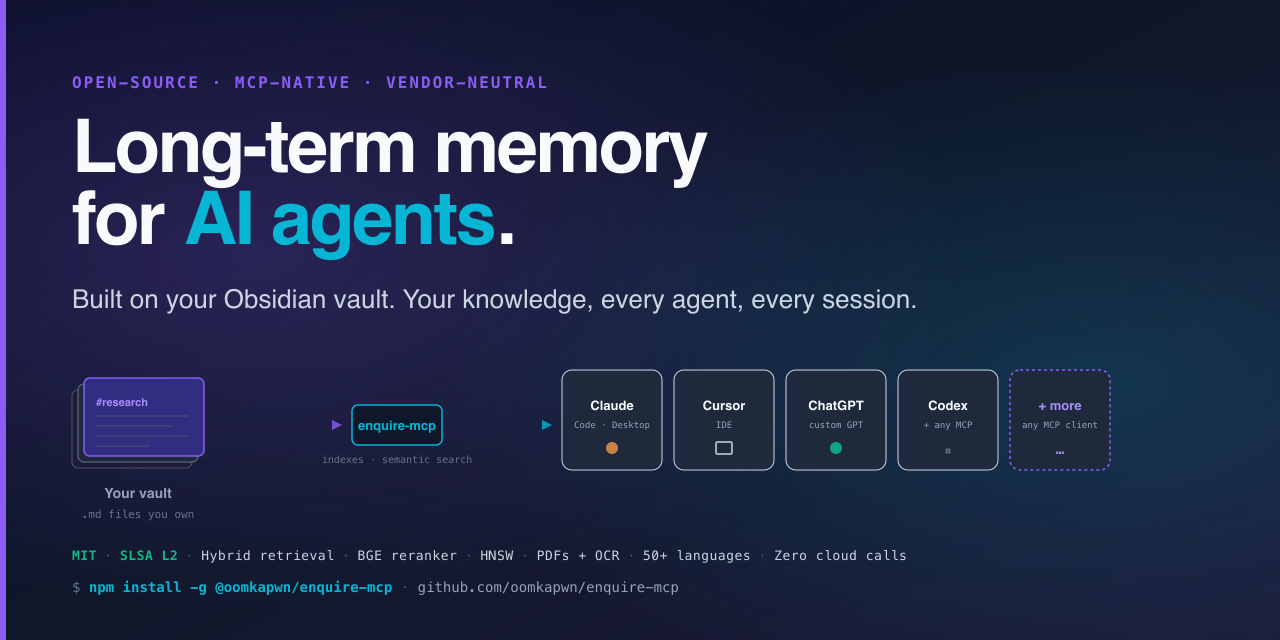
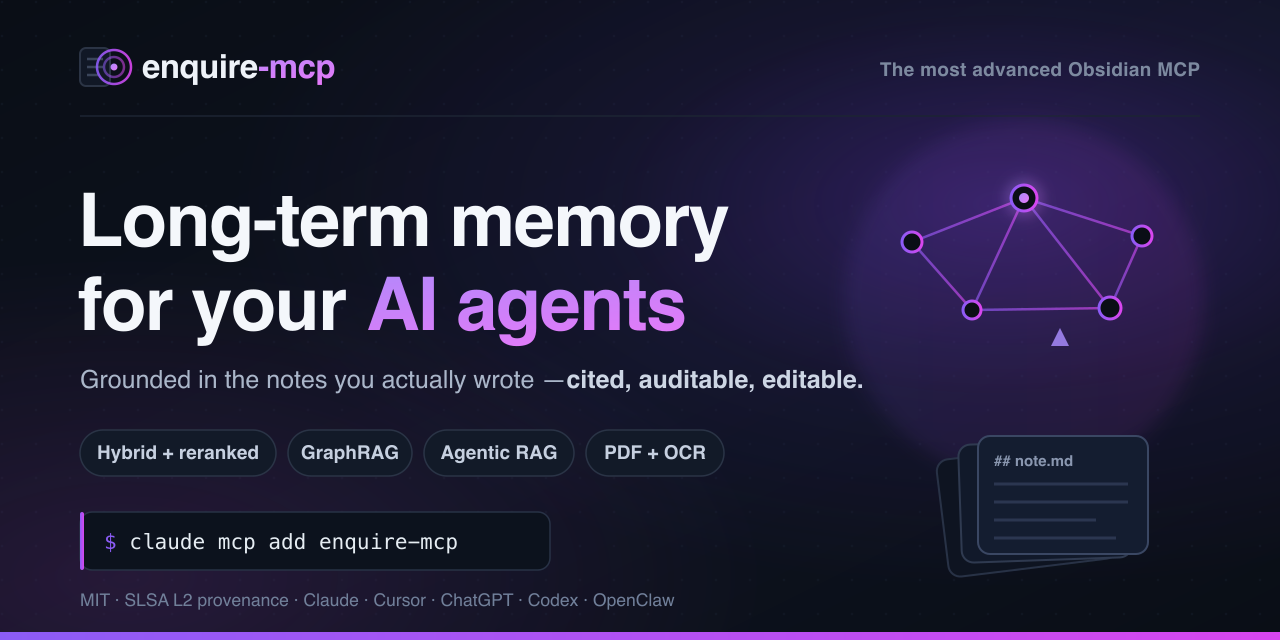
v3.9.0-rc.29: redesign social-preview card (professional + conversion-oriented) (#168)
Complete redesign of assets/social-preview.svg (+ re-rendered .png), the GitHub
social-preview / most-shared visual of the repo, at the user's request.

- Premium dark treatment: layered gradient + radial glow + subtle dot matrix.
- SVG logomark (vault doc -> recall rings); no emoji.
- Value-prop hero: "Long-term memory for your AI agents".
- Selling line (category differentiator): "Grounded in the notes you actually
  wrote -- cited, auditable, editable."
- Qualitative capability chips: Hybrid + reranked / GraphRAG / Agentic RAG /
  PDF + OCR (no hardcoded counts -> card is no longer a numeric-drift surface).
- "claude mcp add enquire-mcp" install CTA pill.
- Honest trust line: MIT / SLSA L2 / Claude / Cursor / ChatGPT / Codex / OpenClaw.
- vault -> knowledge-graph memory illustration.

PNG re-rendered at 2x density -> crisp 1280x640 (188 KB -> 49.5 KB).
SLSA honesty preserved ("SLSA L2", not "SLSA-3") -> OIA Check 4d stays green.

Assets + version/CHANGELOG/CLAUDE only. Zero src/, 1019 tests unchanged.
Gates: lint, version-consistency (7 surfaces), OIA 10/10, changelog-coverage.

diff --git a/src/index.ts b/src/index.ts
@@ -42,7 +42,7 @@ import { main } from "./cli.js";
  * + `McpServer({version})`) and `src/tool-registry.ts` (used in the
  * `vault-info` resource payload).
  */
-export const VERSION = "3.9.0-rc.28";
+export const VERSION = "3.9.0-rc.29";
 
 // Re-exports — preserve the v3.5.x public surface so http-transport.ts and
 // tests don't need to know about the new module layout. The set below

diff --git a/CLAUDE.md b/CLAUDE.md
@@ -153,7 +153,8 @@ Apply **root-cause sweep methodology** consistently: every bug → identify the 
 - **v3.9.0-rc.3 shipped**: R-10 adaptive HNSW refill — closes the last open INFO finding from the corrected 2026-05-25 external audit on rc.15. New `adaptiveHnswRefill()` helper in `src/tools/search.ts` doubles k up to 3 attempts when post-filter hits < limit; closes the >66% excluded under-return class that rc.9's static 6× multiplier couldn't fully solve. Archived audit doc + AUDIT-REQUEST for next pre-stable pass. **+7 tests; 918 unit tests total.**
 - **v3.9.0-rc.4 shipped**: Full state-driven self-audit — closes 3 HIGH + 4 MEDIUM findings + documents overclaim #13 + recursion-pair shape #7 + extends META scope-completeness with 2 new defenses (`runDeferredClaimAudit`, `runCliFlagCoverageAudit`). User-facing docs (README, api.md, QUICKSTART, llms.txt, AGENTS.md) updated to mention v3.9.0-rc.1/rc.2/rc.3 features (OCR flags, HNSW live update, adaptive refill). 12 stable CLI flags added to `docs/api.md` flag table. CLAUDE.md self-contradiction (header "deferred" vs status "shipped") fixed. **+5 tests (3 POSITIVE + 2 NEGATIVE controls); 923 unit tests total.**
 - **v3.9.0-rc.7 shipped**: Tier 0 integrity batch from the comprehensive audit (code agent + docs agent + competitor research). Fixes 2 brand-critical overclaims: **#15 SLSA-3** (badge linked to slsa.dev L3 but `release.yml` only does `npm publish --provenance` = SLSA Build L2 — downgraded the claim across README badge/hero/table/releases + package.json + llms.txt + COMPARISON to "signed build provenance (SLSA L2); L3 generator on roadmap") + version/RC drift (README "currently rc.3"→rc.6, QUICKSTART, benchmarks, OIA "6 checks"→8 in AGENTS.md). Reranker claim corrected from generic "+5-10 NDCG@10" to **measured +15.5 NDCG@10 / +24.7 MRR**. New `ROADMAP.md`. `false/` npm-cache junk → `.gitignore`. CITATION.cff version field. New anti-pattern documented (overclaim #15 + the "claimed-guarantee vs code-guard" class). **Docs/config-only; tests unchanged.** OCR offline enforcement (#16, "implement" decision) → rc.9; watcher per-file serialization race (H1) → rc.10 (re-sequenced when rc.8 became the integrity-batch — see rc.8 entry).
-- **v3.9.0-rc.28 shipped (current)**: External-audit re-verification response. A "Mavis" external audit (on rc.24 / `d564eb5`) was supplied; I re-verified every claim against the actual code (treating the report as untrusted). **Verdict**: competent breadth audit, but it **MISSED a live CRITICAL** — the ReDoS we independently found + fixed in rc.25 — so its "no critical findings" was false for the commit it graded; plus factual errors ("14-check OIA"→10; "22 bare `catch {}`"→49 and **zero** truly-empty; "12 floors"→11 files). Fixed the audit's legitimate code findings: **M-2** (`buildEmbedText` `MAX_EMBED_CHARS=8000` clamp — default path unaffected), **M-6** (`peekCache` LRU-bounded via new pure `lruMapSet`), **M-4** (`main()` + `addAdvancedRetrievalOptions` TSDoc), **L-4 residual** (`bench.mjs:4` "p99"→"max" comment). **Rejected** H-4 (style nit, miscounted, all fail-soft-with-body — documented) and **deferred** M-3 (2 new CLI flags = disproportionate surface — documented). **H-1/H-2/H-3 branch-protection are MAINTAINER-ONLY** (verified real via `gh api`: 7 enforced checks not 9, `enforce_admins:false`, 0 reviews — but modifying repo security settings is out of scope for the agent; exact `gh api` command left in the re-verification doc). Full per-finding verdict recorded in `docs/audits/v3.9.0-rc.24-external-mavis-reverification-2026-05-29.md`. **1014 → 1019 tests** (+5: clamp + LRU, each with NEGATIVE controls); zero behavior change. **Lesson**: a single external auditor — even a strong one — can miss the one finding that matters most (a remote-DoS CRITICAL); the v3.6.1 ≥2-independent-auditors gate stands.
+- **v3.9.0-rc.29 shipped (current)**: Social card redesign (brand/visual). `assets/social-preview.svg` (+ re-rendered `.png`) — the GitHub social-preview, the most-shared visual of the repo — completely redesigned for a professional, conversion-oriented look at the user's request ("сделай профессиональной и продающей"). Premium dark treatment (gradient + radial glow + dot matrix), SVG logomark (no emoji), value-prop hero "Long-term memory for your AI agents", the "Grounded in the notes you actually wrote — cited, auditable, editable" selling line, qualitative capability chips, `claude mcp add` install CTA, honest "MIT · SLSA L2 · Claude/Cursor/ChatGPT/Codex/OpenClaw" trust line, and a vault→knowledge-graph motif. **Deliberately dropped the old hardcoded count claims (44 tools / 19 prompts) → card is no longer a numeric-drift surface** (sidesteps the rc.18-deferred stat-pill-invariant concern). PNG re-rendered 2× density → 1280×640 (49.5 KB). OIA Check 4d (SLSA scan of the card) stays green. **Assets only — zero `src/`, 1019 tests unchanged.** _(Shipped through a multi-hour sandbox outage mid-task — env recovered, state re-verified clean before ship.)_
+- **v3.9.0-rc.28 shipped**: External-audit re-verification response. A "Mavis" external audit (on rc.24 / `d564eb5`) was supplied; I re-verified every claim against the actual code (treating the report as untrusted). **Verdict**: competent breadth audit, but it **MISSED a live CRITICAL** — the ReDoS we independently found + fixed in rc.25 — so its "no critical findings" was false for the commit it graded; plus factual errors ("14-check OIA"→10; "22 bare `catch {}`"→49 and **zero** truly-empty; "12 floors"→11 files). Fixed the audit's legitimate code findings: **M-2** (`buildEmbedText` `MAX_EMBED_CHARS=8000` clamp — default path unaffected), **M-6** (`peekCache` LRU-bounded via new pure `lruMapSet`), **M-4** (`main()` + `addAdvancedRetrievalOptions` TSDoc), **L-4 residual** (`bench.mjs:4` "p99"→"max" comment). **Rejected** H-4 (style nit, miscounted, all fail-soft-with-body — documented) and **deferred** M-3 (2 new CLI flags = disproportionate surface — documented). **H-1/H-2/H-3 branch-protection are MAINTAINER-ONLY** (verified real via `gh api`: 7 enforced checks not 9, `enforce_admins:false`, 0 reviews — but modifying repo security settings is out of scope for the agent; exact `gh api` command left in the re-verification doc). Full per-finding verdict recorded in `docs/audits/v3.9.0-rc.24-external-mavis-reverification-2026-05-29.md`. **1014 → 1019 tests** (+5: clamp + LRU, each with NEGATIVE controls); zero behavior change. **Lesson**: a single external auditor — even a strong one — can miss the one finding that matters most (a remote-DoS CRITICAL); the v3.6.1 ≥2-independent-auditors gate stands.
 - **v3.9.0-rc.27 shipped**: Positioning + discoverability (rc.18-deferred repo-page work + ROADMAP's #1 messaging item). "**Grounded, not extracted**" framing added to README + llms.txt + COMPARISON — the category distinction vs conversation-memory tools (mem0/Zep/Supermemory extract facts from chat logs into an opaque store; enquire recalls the markdown you authored, cited + auditable + editable). `claude mcp add` one-liner promoted into the README hero. Docs only — zero `src/`, **1014 tests unchanged**, all gates green (version×7, docs-consistency, OIA, lint). Deferred (noted in CHANGELOG): social-preview stat-pill redesign (new numeric-drift surface → needs same-PR invariant per the rc.18 rule) + server.json categories (schema re-verify). **This concludes the autonomously-shippable v3.9.0-line backlog** — audit fully closed at rc.26, positioning at rc.27. Remaining items are maintainer-gated: v3.9.0→@latest (fresh external audit, v3.6.1 rule), published LongMemEval score (reference-hardware run), and the v3.10 feature line (forgetting-aware staleness — a sequencing decision: start now vs after v3.9.0 stable).
 - **v3.9.0-rc.26 shipped**: Pre-stable audit response, batches 2/3 (test-infra) + 3/3 (docs) — **CLOSES the pre-stable audit**. Same 3-agent audit as rc.25. Two HIGH defense-integrity gaps, both the signature incomplete-class-sweep: (HIGH-1) the **META-invariant** (enforcer of "every invariant has a real NEGATIVE control") was itself partly vacuous — accepted a COMMENTED-OUT `it(` and an EMPTY-BODY `it("NEGATIVE",()=>{})`; rc.23 claimed this fixed but only moved vacuity from "token anywhere" → "token in a title". Fixed: strip comments first + require an ASSERTION in the matched test's callback body (balanced-brace scan) + 3 new controls. (HIGH-2) `cli.test.ts` (22 tests incl. bearer-auth ≥16 + K-1 FTS5-preservation) used silent `return` skips with NO CI-GUARD — rc.23's CI-GUARD sweep missed this file; added the tripwire + converted all 22 to visible `ctx.skip()`. MED/LOW: github-metadata CI-GUARD (MED-1), scope-completeness control now drives the REAL `classifyDefenseFile` not a copy (MED-3), `k1-version-stamp`+`jsonld` added to EXTRA_STRUCTURAL_FILES (LOW-1, ≥11), coverage job explicit `npm run build` (LOW-2). Docs: per-file-floor counter under-counted (two-key `{branches,lines}` regex → reported 10 vs 11 real; gate-passes-while-wrong) + AGENTS 10→11 (F1), ROADMAP stale checkboxes/date + registry-404 reword (F2), STABILITY +`install-ocr-lang` (F3). **1009 → 1014 tests** (+5: 3 META controls + 2 CI-GUARDs; 22 skip-conversions + scope-completeness rewrite net-zero). Tests/scripts/workflow/docs only — zero `src/` runtime change. **Pre-stable audit fully closed** (rc.25 security + rc.26 test-infra+docs); `src/` audited exceptionally clean.
 - **v3.9.0-rc.25 shipped**: Pre-stable audit response, batch 1/3 (the @latest-gate blocker) — **3rd ReDoS recursion + the fuzz harness that ends the treadmill**. A fresh independent 3-agent audit (code · docs · tests) on the rc.24 commit reproduced a **CRITICAL** the rc.21/rc.24 guard still missed: `(a?b|b)+$` (9 chars) hangs V8 >5s on bearer-auth `serve-http`. Three shapes the leading-atom analysis couldn't see: (A) **optional leading atom** (`a?b` can start with `a` OR `b`) — fixed by replacing single-token `leadingAtomToken` with a precise leading-**SET** (`leadingAtomSet`) + set-intersection ambiguity check (also removes the over-flag on disjoint `(a?b|c)+`); (B) **nullable body** (`(a?){25}`, `(\s*)*`) — new `branchIsNullable` (recurses into nested groups); (C) **variable-length body** (`(a{2,5})+`, `(\w[ba]{0,3})+`) — new `bodyHasVariableQuantifier`, gated on the OUTER quantifier being unbounded so bounded `(.+){2,5}` stays accepted. **Overclaim #18** (rc.21's "never under-flags" was STILL false post-rc.24, for quantifier shapes). The real fix is the **durable structural defense**: `tests/redos-fuzz.test.ts` runs every SAFE-classified pattern from a 2000-pattern corpus through a real timed `exec` in a worker (with a re-confirm to avoid load-flake) — so the NEXT missed shape fails CI empirically. Dev fuzz at 5000 candidates found 0 under-flags after the fix. `decodeEscapedChar` refactored to `{char,length}` (single source of truth for escape spans) + exported + directly tested. **1002 → 1009 tests** (+7 source `it()`: 5 decode-helper + 2 fuzz; rest array entries). meta.ts branches 76.1%→78.51%. **Lesson**: when a heuristic security detector's class recurs (3× here), STOP enumerating shapes — add an empirical fuzz comparing the static verdict to real execution; that turns the undecidable "did I catch every shape?" into a CI check. Batches 2/3 (test-infra: meta-invariant vacuity + cli.test.ts CI-GUARD) + 3/3 (docs drift) follow as rc.26/rc.27.

diff --git a/CHANGELOG.md b/CHANGELOG.md
@@ -2,6 +2,25 @@
 
 All notable changes to this project will be documented here. The format follows [Keep a Changelog](https://keepachangelog.com/en/1.1.0/), and the project adheres to [Semantic Versioning](https://semver.org/spec/v2.0.0.html).
 
+## [3.9.0-rc.29] — 2026-05-29
+
+> **TL;DR:** **Social card redesign** — `assets/social-preview.svg` (+ rendered `.png`), the GitHub social-preview / most-shared visual of the repo, was completely redesigned for a more professional, conversion-oriented look. Premium dark treatment (layered gradient + radial glow + subtle dot matrix), an SVG logomark (vault doc → recall rings; no emoji), a value-prop hero (**"Long-term memory for your AI agents"**), the category-differentiator selling line (**"Grounded in the notes you actually wrote — cited, auditable, editable."**), qualitative capability chips (Hybrid + reranked · GraphRAG · Agentic RAG · PDF + OCR), a `claude mcp add enquire-mcp` install CTA pill, an honest trust line (**MIT · SLSA L2 · Claude/Cursor/ChatGPT/Codex/OpenClaw**), and a "vault → knowledge-graph memory" illustration. **Assets only — zero `src/`, 1019 tests unchanged.**
+
+**Patch — brand/visual. `assets/social-preview.svg` + `assets/social-preview.png` only.**
+
+### Changed
+
+- **`assets/social-preview.svg`** fully rewritten (9.7 KB → 11.8 KB) with the premium layout above. Deliberately **drops the previous hardcoded count claims** ("44 tools", "19 prompts") — qualitative differentiators replace drift-prone numbers, so the card is no longer a numeric-drift surface (sidesteps the rc.18-deferred "stat-pill needs an invariant" concern entirely). Pure ASCII, no NUL, well-formed.
+- **`assets/social-preview.png`** re-rendered at 2× density → crisp 1280×640 (188 KB → 49.5 KB).
+- **SLSA honesty preserved**: the trust line reads "SLSA L2" (not "SLSA-3"); OIA Check 4d (which scans `social-preview.svg`) stays green.
+
+### Notes
+
+- The GitHub repo **Social preview** image is uploaded in repo **Settings → Options → Social preview** (not auto-derived from the file); upload `assets/social-preview.png` there to update the live card.
+- version bump 3.9.0-rc.28 → 3.9.0-rc.29; no package-content change (assets are not in the npm tarball).
+
+---
+
 ## [3.9.0-rc.28] — 2026-05-29
 
 > **TL;DR:** **External-audit re-verification response.** An external "Mavis" audit (on rc.24 / commit `d564eb5`) was supplied and re-verified — I treated every claim as untrusted and checked it against the actual code. Verdict: a competent breadth audit, but it **missed a live CRITICAL** (the ReDoS we'd independently found + fixed in rc.25 — its "no critical findings" was false for the commit it graded) and carried several factual errors ("14-check OIA" → it's 10; "22 bare `catch {}`" → 49, and **zero** truly-empty; "12 floors" → 11 files). This RC fixes the audit's **legitimate** code findings (M-2, M-6, M-4, the L-4 residual — each with positive + NEGATIVE controls), **rejects** one (H-4, documented), **defers** one (M-3, documented), and records the full re-verification in `docs/audits/`. The branch-protection findings (H-1/H-2/H-3) are **maintainer-only** (repo settings — out of scope for me to change). **1014 → 1019 tests**; zero behavior change (clamp + cache cap are opt-in/bounding only).
